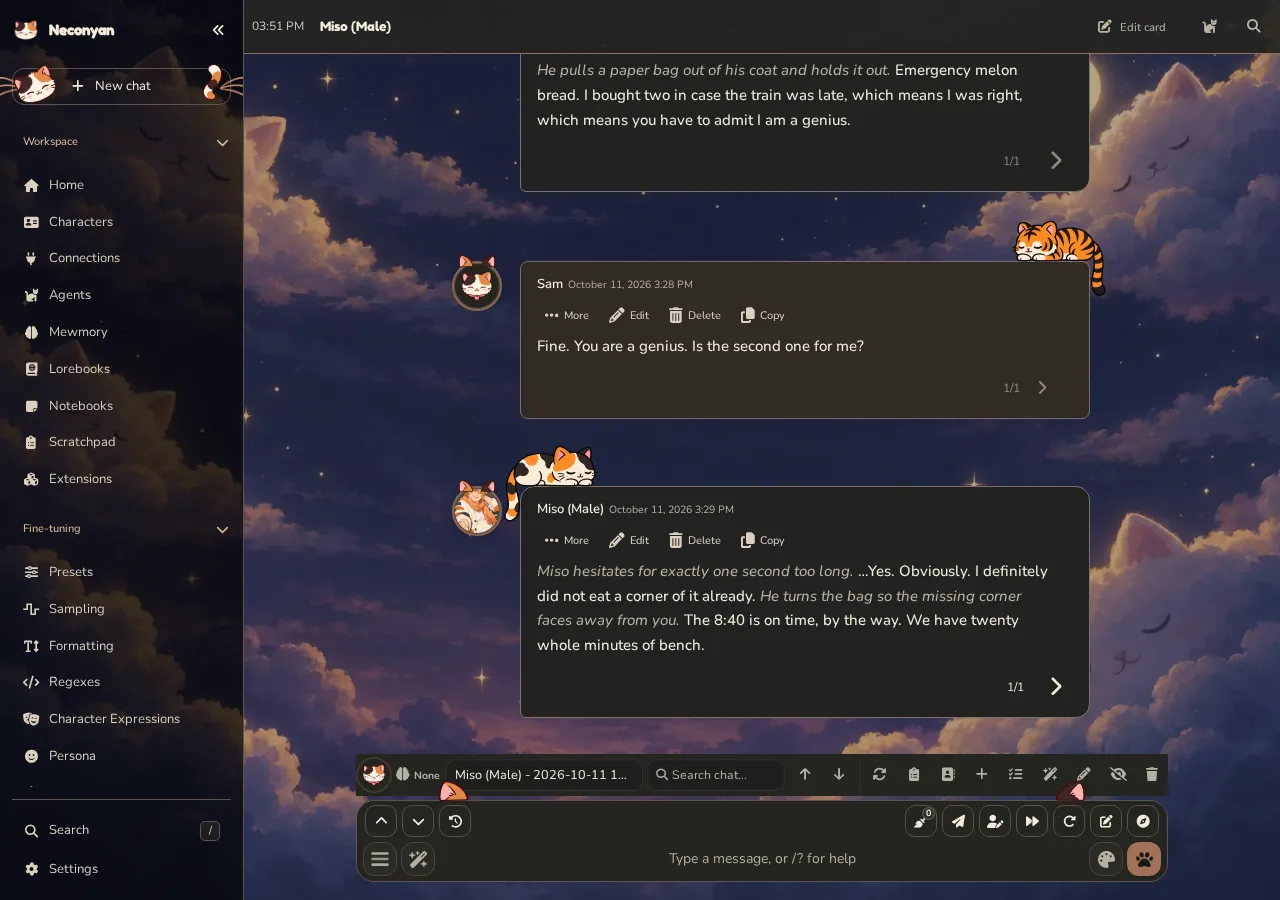
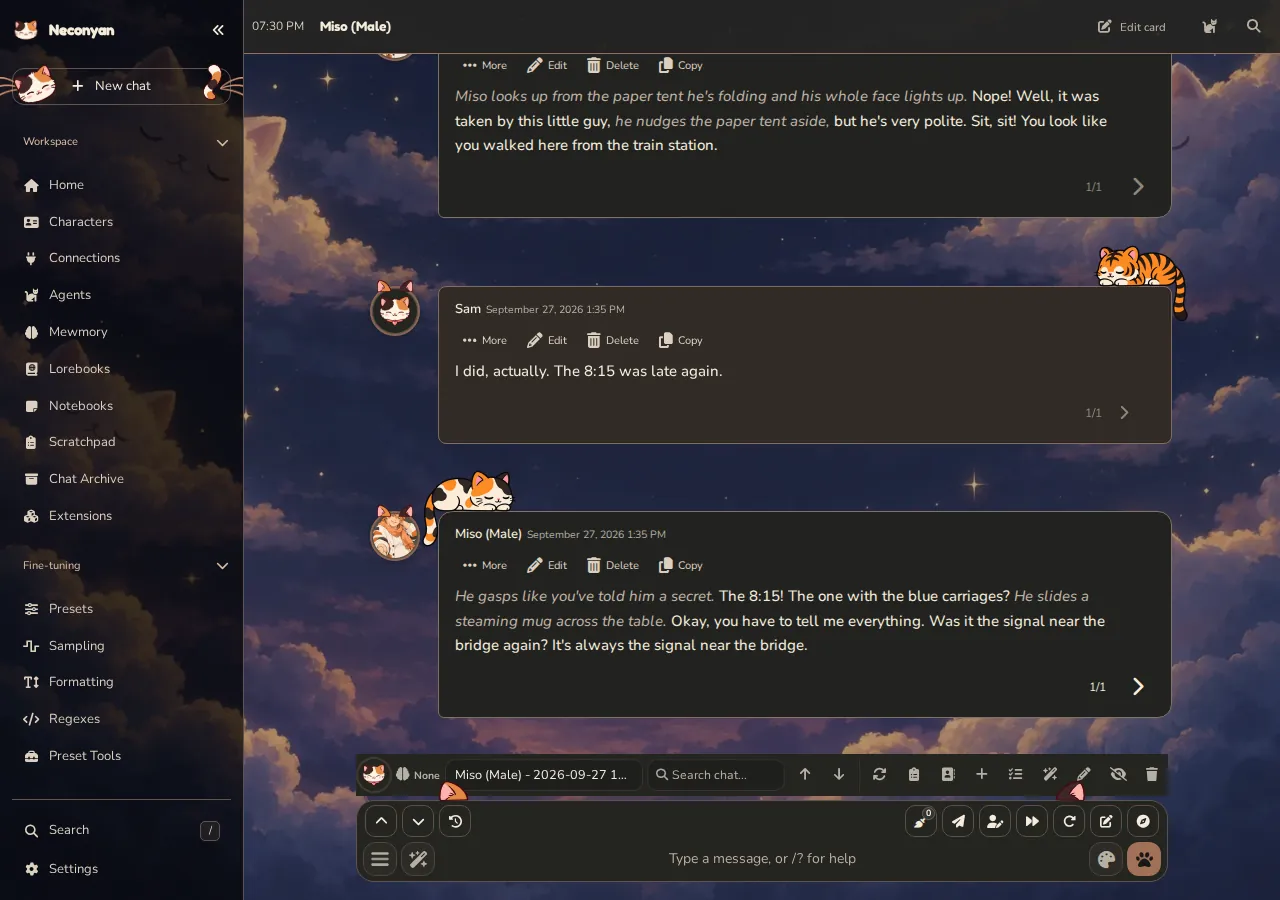
docs(readme): refresh screenshots and add Simple Mode

diff --git a/.github/readme.md b/.github/readme.md
@@ -23,7 +23,7 @@ If you want SillyTavern with everything working exactly like upstream, use [Sill
 - **Story memory.** [Mewmory](../docs/mewmory.md) keeps track of your story, the NPCs you've met and what they said, so you're not re-explaining everything 200 messages later.
 - **The good stuff comes built in.** Agents, Chat Archive, Quick Image Gen, Guided Generations, BotSearcher and a few more, each with their own settings. [Here's the full list and who made them.](../docs/neconyan-native-tools.md)
 - **Somewhere to keep notes.** [Notebooks](../docs/notebooks.md) gives you space for character drafts, places, scene plans and session journals, right next to your chats. Notes link to each other and to your lorebooks, and the assistants can edit them if you let them.
-- **Little helpers.** Miso, Taro and Nori can use tool calls to create characters with portraits, edit lorebooks and adjust presets or agents. The short First paws tour walks you through the basics.
+- **Little helpers.** Miso, Taro and Nori can use tool calls to create characters with portraits, edit lorebooks and adjust presets or agents. The short First paws tour walks you through the basics, and [Simple Mode](#simple-mode) keeps the advanced stuff out of the way until you want it.
 - **Someone to talk the story over with.** [Scratchpad](../docs/scratchpad.md) is a side chat next to your story where the assistants, your own characters or a whole round table of them can read the scene and give you ideas, without any of it ending up in the chat.
 - **It's cute.** Calico themes, cats napping on your messages and a pixel cat on Home. That was the whole point, really.
 - **Your files are still your files.** It reads the same character cards, chats, lorebooks and presets as SillyTavern, and there's no telemetry.
@@ -42,6 +42,17 @@ Where you land. Pick a character, start a temporary chat, connect a model or say
   <tr>
     <td width="72%"><img src="../docs/readme/desktop-home.webp" alt="Home on desktop"></td>
     <td width="28%"><img src="../docs/readme/phone-home.webp" alt="Home on a phone"></td>
+  </tr>
+</table>
+
+### Simple Mode
+
+There are a lot of buttons in here, and you don't need most of them on day one. Simple Mode tucks away Mewmory, Chat Archive, Extensions, the mode switcher, most of Fine-tuning and the extra buttons around the message box, and leaves you with characters, connections, presets, lorebooks, Agents, Notebooks and Scratchpad. Nori asks if you want it before the First paws tour starts. Nothing gets turned off, it's only hidden, so press **Show all features** in the sidebar or switch it off in Settings > Appearance whenever you want everything back.
+
+<table>
+  <tr>
+    <td width="72%"><img src="../docs/readme/desktop-simple.webp" alt="A Roleplay chat with Simple Mode on, on desktop"></td>
+    <td width="28%"><img src="../docs/readme/phone-simple.webp" alt="A Roleplay chat with Simple Mode on, on a phone"></td>
   </tr>
 </table>
 

diff --git a/README.md b/README.md
@@ -21,7 +21,7 @@ If you want SillyTavern with everything working exactly like upstream, use [Sill
 - **Story memory.** [Mewmory](docs/mewmory.md) keeps track of your story, the NPCs you've met and what they said, so you're not re-explaining everything 200 messages later.
 - **The good stuff comes built in.** Agents, Chat Archive, Quick Image Gen, Guided Generations, BotSearcher and a few more, each with their own settings. [Here's the full list and who made them.](docs/neconyan-native-tools.md)
 - **Somewhere to keep notes.** [Notebooks](docs/notebooks.md) gives you space for character drafts, places, scene plans and session journals, right next to your chats. Notes link to each other and to your lorebooks, and the assistants can edit them if you let them.
-- **Little helpers.** Miso, Taro and Nori can use tool calls to create characters with portraits, edit lorebooks and adjust presets or agents. The short First paws tour walks you through the basics.
+- **Little helpers.** Miso, Taro and Nori can use tool calls to create characters with portraits, edit lorebooks and adjust presets or agents. The short First paws tour walks you through the basics, and [Simple Mode](#simple-mode) keeps the advanced stuff out of the way until you want it.
 - **Someone to talk the story over with.** [Scratchpad](docs/scratchpad.md) is a side chat next to your story where the assistants, your own characters or a whole round table of them can read the scene and give you ideas, without any of it ending up in the chat.
 - **It's cute.** Calico themes, cats napping on your messages and a pixel cat on Home. That was the whole point, really.
 - **Your files are still your files.** It reads the same character cards, chats, lorebooks and presets as SillyTavern, and there's no telemetry.
@@ -40,6 +40,17 @@ Where you land. Pick a character, start a temporary chat, connect a model or say
   <tr>
     <td width="72%"><img src="docs/readme/desktop-home.webp" alt="Home on desktop"></td>
     <td width="28%"><img src="docs/readme/phone-home.webp" alt="Home on a phone"></td>
+  </tr>
+</table>
+
+### Simple Mode
+
+There are a lot of buttons in here, and you don't need most of them on day one. Simple Mode tucks away Mewmory, Chat Archive, Extensions, the mode switcher, most of Fine-tuning and the extra buttons around the message box, and leaves you with characters, connections, presets, lorebooks, Agents, Notebooks and Scratchpad. Nori asks if you want it before the First paws tour starts. Nothing gets turned off, it's only hidden, so press **Show all features** in the sidebar or switch it off in Settings > Appearance whenever you want everything back.
+
+<table>
+  <tr>
+    <td width="72%"><img src="docs/readme/desktop-simple.webp" alt="A Roleplay chat with Simple Mode on, on desktop"></td>
+    <td width="28%"><img src="docs/readme/phone-simple.webp" alt="A Roleplay chat with Simple Mode on, on a phone"></td>
   </tr>
 </table>
 
